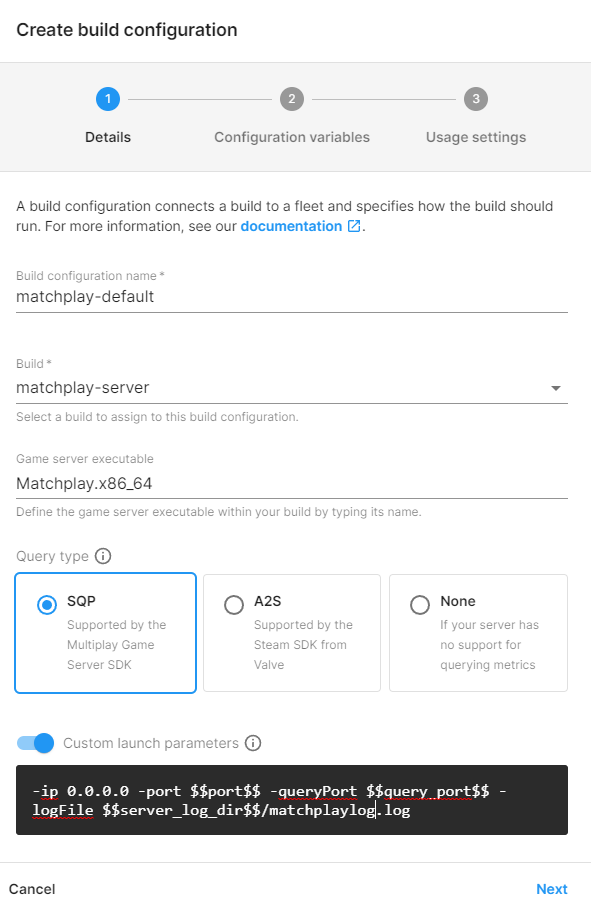
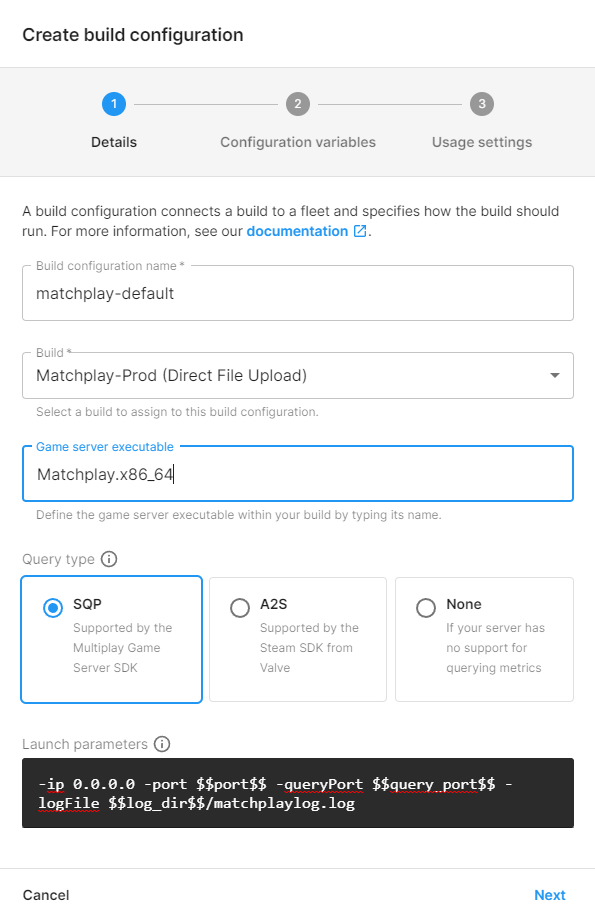
Updated image and added guidance to new dashboard.

diff --git a/README.md b/README.md
@@ -132,7 +132,7 @@ The Multiplay service can be managed in the [Unity Dashboard](https://dashboard.
 It should automatically build your project as a server build, and output it to:
 `<project root>/Builds/Matchplay-<platformBuildType>_<dateTime>`
 4. Next, upload the server to Multiplay and configure server hosting. Go to your Unity Dashboard and then go to **Multiplay Setup Guide** > **Create a build**.
-5. Fill out the Details fields and move to **Upload Files**. Drag your **Linux Headless Build** into the dropbox and select **Upload Files**.
+5. Fill out the name, select **Linux**, and **Direct File Upload**. Click Next. Drag your **Linux Headless Build** into the dropbox and select **Upload Files**.
 ![image](https://user-images.githubusercontent.com/83710234/183719787-2abcc610-bc0d-47b6-9b6c-e7e1bd5ad2d6.png)
 6. Continue to set up the build configuration. Complete the fields and enter `Matchplay.x86_64` in the game server executable field.
 7. Select SQP as your query type, and fill in the following as the custom launch parameters:
